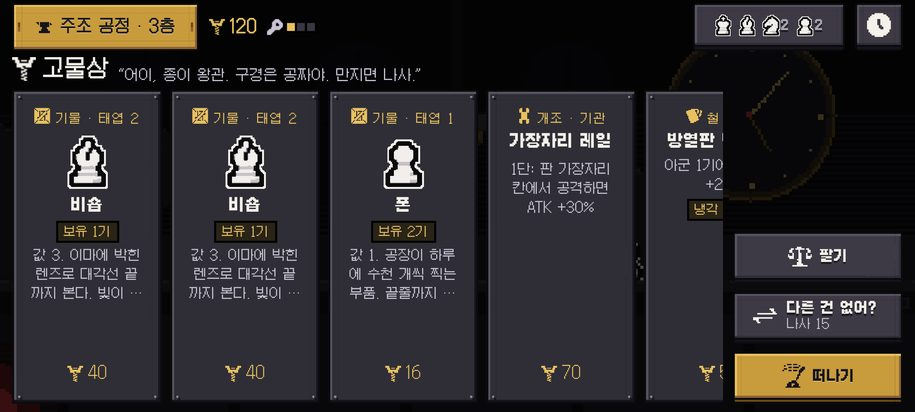
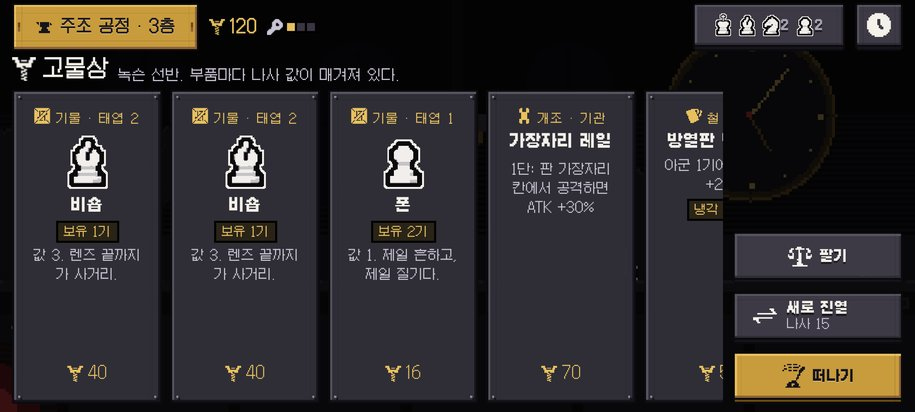
Drop the folksy voice: short, cold lines everywhere
정겨운 말투(만지면 나사 · ~볼래? · 다른 건 없어? · 외상? 웃기지 마 · 종이 왕관 애칭)를 모두 걷어 냈다 (D-093).
모든 화자는 짧고 차갑게, 버튼은 동사 하나(새로 진열 · 팔림), 운이 걸린 선택만 '~할까?'(레버를 당길까? · 나사 30을 걸까?).
고물상·공방·뽑기 기계·돌발·오류 메시지·결과 화면 문구를 바꾸고 CLAUDE.md 말투 규칙과 text.ts 화자 주석도 고쳤다.

Claude-Session: https://claude.ai/code/session_011jC4ZCDKW43H5FzLWnYVpe

diff --git a/src/run/run.ts b/src/run/run.ts
@@ -359,7 +359,7 @@ const rollCards = (run: RunState, rng: Rng, source: 'elite' | 'boss'): CardId[] 
 export const addEnchant = (run: RunState, id: EnchantId, discard?: EnchantId): string | void => {
   const e = run.loadout.enchants;
   const n = e[id] ?? 0;
-  if (n >= ENCHANT_MAX_STACK) return '“이미 걸작이야. 더 붙일 데 없어.”';
+  if (n >= ENCHANT_MAX_STACK) return '“이미 걸작이다.”';
   if (!n && Object.keys(e).length >= ENCHANT_SLOTS) {
     if (!discard || !e[discard]) return 'full';
     delete e[discard];
@@ -384,7 +384,7 @@ export const takeChoice = (run: RunState, option: string, discard?: EnchantId | 
   if (!(ch.options as string[]).includes(option)) return '없는 선택지';
   if (ch.type === 'piece') {
     const t = option as PieceType;
-    if (!canAdd(run.deck, t)) return '“규격 초과. 더는 안 들어가.”';
+    if (!canAdd(run.deck, t)) return '“규격 초과.”';
     run.deck.push(t);
     run.stage.choices.shift();
     return;
@@ -407,7 +407,7 @@ export const skipChoice = (run: RunState): void => {
 /** 보상 단계를 마친다 (선택지를 다 처리한 뒤) */
 export const finishReward = (run: RunState): string | void => {
   if (run.stage.at !== 'reward') return;
-  if (run.stage.choices.length) return '“아직 남았어. 고르든지 넘기든지.”';
+  if (run.stage.choices.length) return '“아직 고를 게 남았다.”';
   advance(run);
 };
 
@@ -438,8 +438,8 @@ const shopOf = (run: RunState): ShopStock | null => (run.stage.at === 'shop' ? r
 export const buyPiece = (run: RunState, i: number): string | void => {
   const it = shopOf(run)?.pieces[i];
   if (!it || it.sold) return '“그런 물건 없어.”';
-  if (run.gold < it.price) return '“나사가 모자라잖아. 외상? 웃기지 마.”';
-  if (!canAdd(run.deck, it.item)) return '“규격 초과야. 하나 팔고 오면 넣어 주지.”';
+  if (run.gold < it.price) return '“나사가 부족해.”';
+  if (!canAdd(run.deck, it.item)) return '“규격 초과. 하나 빼고 와.”';
   run.gold -= it.price;
   run.deck.push(it.item);
   it.sold = true;
@@ -448,7 +448,7 @@ export const buyPiece = (run: RunState, i: number): string | void => {
 export const buyCard = (run: RunState, i: number, discard?: number): string | void => {
   const it = shopOf(run)?.cards[i];
   if (!it || it.sold) return '“그런 물건 없어.”';
-  if (run.gold < it.price) return '“나사가 모자라잖아. 외상? 웃기지 마.”';
+  if (run.gold < it.price) return '“나사가 부족해.”';
   const err = addCard(run, it.item, discard);
   if (err) return err;
   run.gold -= it.price;
@@ -458,7 +458,7 @@ export const buyCard = (run: RunState, i: number, discard?: number): string | vo
 export const buyEnchant = (run: RunState, i: number, discard?: EnchantId): string | void => {
   const it = shopOf(run)?.enchants[i];
   if (!it || it.sold) return '“그런 물건 없어.”';
-  if (run.gold < it.price) return '“나사가 모자라잖아. 외상? 웃기지 마.”';
+  if (run.gold < it.price) return '“나사가 부족해.”';
   const err = addEnchant(run, it.item, discard);
   if (err) return err;
   run.gold -= it.price;
@@ -468,7 +468,7 @@ export const buyEnchant = (run: RunState, i: number, discard?: EnchantId): strin
 /** 기물 판매 (킹 제외). 상점에서만. */
 export const sellPiece = (run: RunState, t: PieceType): string | void => {
   if (!shopOf(run)) return '여긴 고물상이 아니야.';
-  if (t === 'K') return '“킹을 팔겠다고? 그럼 넌 뭐가 되는데.”';
+  if (t === 'K') return '“킹은 안 받아.”';
   const i = run.deck.indexOf(t);
   if (i < 0) return '없는 기물';
   run.deck.splice(i, 1);
@@ -478,7 +478,7 @@ export const sellPiece = (run: RunState, t: PieceType): string | void => {
 export const reroll = (run: RunState): string | void => {
   const shop = shopOf(run);
   if (!shop) return;
-  if (run.gold < shop.rerollPrice) return '“나사가 모자라잖아. 외상? 웃기지 마.”';
+  if (run.gold < shop.rerollPrice) return '“나사가 부족해.”';
   run.gold -= shop.rerollPrice;
   run.stage = { at: 'shop', stock: withRng(run, (rng) => makeStock(run, rng, shop.rerollPrice + SHOP.rerollStep)) };
 };
@@ -493,8 +493,8 @@ export const forgeUp = (run: RunState, t: PieceType): string | void => {
   if (run.stage.at !== 'forge') return '공방에 가서 해.';
   if (!run.deck.includes(t)) return '군단에 없는 유형';
   const cost = forgeCost(run, t);
-  if (cost === null) return '“더 두드리면 금 간다. 완성이야.”';
-  if (run.gold < cost) return '“나사가 모자라잖아. 외상? 웃기지 마.”';
+  if (cost === null) return '“완성품이다. 더 손댈 데 없어.”';
+  if (run.gold < cost) return '“나사가 부족해.”';
   run.gold -= cost;
   run.loadout.forge[t] = (run.loadout.forge[t] ?? 0) + 1;
 };
@@ -506,7 +506,7 @@ export const forgeVariantOptions = (run: RunState, t: PieceType): VariantId[] =>
 /** 공방: 그 유형의 거푸집을 이형으로 바꾼다 (무료, 되돌릴 수 없음) */
 export const forgeVariant = (run: RunState, t: PieceType, id: VariantId): string | void => {
   if (run.stage.at !== 'forge') return '공방에 가서 해.';
-  if (!forgeVariantOptions(run, t).includes(id)) return `“+${VARIANT_FORGE_LEVEL}도 안 된 걸 뜯어고치라고? 돌아가.”`;
+  if (!forgeVariantOptions(run, t).includes(id)) return `“+${VARIANT_FORGE_LEVEL}부터다.”`;
   run.loadout.variants = { ...run.loadout.variants, [t]: id };
 };
 
@@ -530,7 +530,7 @@ export const altarGamble = (run: RunState): string | void => {
     run.stage.result = { kind: 'pick' };
     return;
   }
-  if (run.gold < ALTAR.cost) return '“나사가 모자라잖아. 외상? 웃기지 마.”';
+  if (run.gold < ALTAR.cost) return '“나사가 부족해.”';
   run.gold -= ALTAR.cost;
   const r = withRng(run, (rng) => rng.next());
   if (r < ALTAR.odds.enchant) {

diff --git a/src/data/text.ts b/src/data/text.ts
@@ -23,10 +23,10 @@ export const TERM = {
 } as const;
 
 /**
- * 화자 (D-089 — 장난감 공장의 귀여움 + 기계의 차가움, docs/story.md):
- *  검수관 — 서류와 숫자만 믿는다. 짧고 차갑다.        고물상 주인 — 능글맞다. 주인공을 "종이 왕관"이라 부른다.
- *  공방 장인 — 말이 적고 자기 망치에 자부심.           뽑기 기계 — 딸깍거리며 꼬드긴다.
- * 느낌표는 위험·결정적인 순간 몇 개만, 물음표는 운에 거는 선택에만.
+ * 화자 (D-089 · D-093, docs/story.md):
+ * D-093 (사용자: 정겨운 말투 금지) — 모두 짧고 차갑다. 농담·애칭·말꼬리(~잖아 · ~볼래 · ~해 볼까) 없음.
+ *  검수관 — 판정만 말한다.      고물상 주인 — 값만 말한다.      공방 장인 — 한두 마디.      뽑기 기계 — 말하지 않는다 (서술만).
+ * 버튼은 동사 하나. 느낌표는 위험·결정적인 순간 몇 개만, 물음표는 운에 거는 선택에만 ("~할까?").
  */
 export const TEXT = {
   pressStart: '화면을 눌러 시작',
@@ -61,11 +61,11 @@ export const TEXT = {
   },
   start: {
     title: '시작 세트',
-    lead: '불량 판정을 받은 세트 셋이 반품대에 놓여 있다. 어느 상자의 동료를 데려갈까?',
+    lead: '반품대 위의 불량 세트 셋. 하나만 데려간다.',
     back: '뒤로',
   },
   map: {
-    choose: '컨베이어가 덜컹거린다. 위층 어딘가에서 반장이 기다린다.',
+    choose: '컨베이어가 위층으로 오른다. 끝에 반장이 있다.',
     abandon: '출하 포기',
     abandonDesc: '스스로 용광로에 걸어 들어간다',
     bossAhead: '이 공정의 반장',
@@ -79,25 +79,25 @@ export const TEXT = {
   },
   shop: {
     title: '고물상',
-    lead: '“어이, 종이 왕관. 구경은 공짜야. 만지면 나사.”',
+    lead: '녹슨 선반. 부품마다 나사 값이 매겨져 있다.',
     pieces: '기물',
     cards: '천공 카드',
     enchants: '개조',
     sell: '팔기',
-    reroll: '다른 건 없어?',
+    reroll: '새로 진열',
     leave: '떠나기',
-    sold: '팔렸어',
+    sold: '팔림',
   },
   forge: {
     title: '공방',
-    lead: '“거푸집 내려놔. …흠, 손볼 데 많군.” — 개량하면 그 유형이 모두 강해진다. +5 완성 거푸집은 대국 시작 방열판 20%.',
+    lead: '“거푸집 내려놔.” — 개량하면 그 유형이 모두 강해진다. +5 완성 거푸집은 대국 시작 방열판 20%.',
     variantLead: '+3부터 이형 거푸집으로 바꿀 수 있다 (무료, 되돌릴 수 없음).',
     leave: '떠나기',
   },
   altar: {
     title: '뽑기 기계',
-    lead: '딸깍. 딸깍. 기계 속 톱니가 당신이 나사를 넣기만 기다린다.',
-    pull: '한 번만… 당겨 볼까?',
+    lead: '나사를 먹는 기계. 무엇이 나올지는 톱니만 안다.',
+    pull: '레버를 당길까?',
     release: '행운 톱니가 꽉 찼다 — 원하는 개조를 꺼낸다',
     leave: '떠나기',
     outcomes: ['희귀 개조 3지선다', '상위 기물', '이형 거푸집', '꽝'],
@@ -106,10 +106,10 @@ export const TEXT = {
     win: '정품 출하',
     lose: '불량 폐기',
     /** 검수관의 말 (화자 있는 대사) + 서술 한 줄 (다키스트 던전·슬레이 더 스파이어식) */
-    winSay: '…서류상으론 결함 없음. 정품. 출하해.',
-    winTell: '상자 뚜껑이 닫힌다. 종이 왕관이 처음으로 눈을 가리지 않는다.',
+    winSay: '결함 없음. 출하.',
+    winTell: '상자 뚜껑이 닫힌다. 트럭이 공장 문을 나선다.',
     loseSay: '불량 혼입. 세트째 폐기.',
-    loseTell: '집게가 상자째 들어 올린다. 아래에서 쇳물이 끓는다. 종이 왕관이 먼저 탄다.',
+    loseTell: '집게가 상자째 들어 올린다. 아래에서 쇳물이 끓는다.',
     menu: '메인 메뉴',
     again: '새 출하',
   },

diff --git a/src/run/events.ts b/src/run/events.ts
@@ -20,9 +20,9 @@ export interface EventDef {
 export const EVENTS: Record<EventId, EventDef> = {
   smith: {
     title: '떠돌이 정비공',
-    text: '공구 수레를 끄는 정비공이 렌치를 들어 보인다. "거푸집 하나만, 싸게 고쳐 주지."',
+    text: '공구 수레 옆의 정비공. "거푸집 하나. 나사 25. 고르는 건 나다."',
     choices: [
-      { label: '나사 25 — 어느 거푸집이 걸릴지, 맡겨 볼까?', desc: '군단에 있는 유형 중 하나 (완성 거푸집 제외)' },
+      { label: '나사 25를 맡길까?', desc: '군단에 있는 유형 중 하나 (완성 거푸집 제외)' },
       { label: '지나간다', desc: '' },
     ],
   },
@@ -30,15 +30,15 @@ export const EVENTS: Record<EventId, EventDef> = {
     title: '반품 창고',
     text: '반품 딱지가 붙은 상자들. 아직 쓸 만한 것이 섞여 있다.',
     choices: [
-      { label: '기물을 챙겨 볼까?', desc: '무작위 나이트 또는 비숍 1기 (군단 규격 안에서)' },
-      { label: '천공 카드를 챙겨 볼까?', desc: '무작위 철 카드 1장 (빈 칸이 있을 때)' },
+      { label: '기물을 챙길까?', desc: '무작위 나이트 또는 비숍 1기 (군단 규격 안에서)' },
+      { label: '천공 카드를 챙길까?', desc: '무작위 철 카드 1장 (빈 칸이 있을 때)' },
     ],
   },
   gambler: {
     title: '태엽 도박꾼',
-    text: '"동전 한 번이면 돼. 앞면이면 두 배, 뒷면이면 내 거."',
+    text: '"앞면이면 두 배. 뒷면이면 내 거."',
     choices: [
-      { label: '앞면에 나사 30개, 걸어 볼까?', desc: '50%: +30 / 50%: −30' },
+      { label: '나사 30을 걸까?', desc: '50%: +30 / 50%: −30' },
       { label: '거절한다', desc: '' },
     ],
   },
@@ -52,9 +52,9 @@ export const EVENTS: Record<EventId, EventDef> = {
   },
   pact: {
     title: '쇳물 앞의 거래',
-    text: '용광로 앞, 쇳물빛에 그림자가 말한다. "가장 아끼는 부품을 녹여라. 대가는 주지."',
+    text: '용광로 앞의 그림자. "하나 녹여라. 대가는 준다."',
     choices: [
-      { label: '가장 아끼는 걸, 녹여 볼까?', desc: '킹·폰을 뺀 무작위 기물 1기를 잃고 희귀 개조 3지선다' },
+      { label: '하나를 녹일까?', desc: '킹·폰을 뺀 무작위 기물 1기를 잃고 희귀 개조 3지선다' },
       { label: '거절한다', desc: '' },
     ],
   },

diff --git a/src/ui/runUi.ts b/src/ui/runUi.ts
@@ -452,7 +452,7 @@ export class RunUi {
     const lines = st.lines.map((l) => `<i class="tag">${l}</i>`).join('');
     const el = this.hud.openScene(
       `${this.bar(run)}
-      <div class="title-line"><h2>${st.title}</h2>${lines}${ch ? `<p>검수관이 서류를 넘긴다. “통과. …아직은. ${kind}, 하나만.”</p>` : ''}</div>
+      <div class="title-line"><h2>${st.title}</h2>${lines}${ch ? `<p>“통과. ${kind} 하나.”</p>` : ''}</div>
       <div class="stage">${ch ? `<div class="offers">${offers}</div>` : '<div class="grow"></div>'}</div>
       <div class="row" style="display:flex;justify-content:flex-end;gap:8px;padding-bottom:8px">
         ${ch ? button(`${R.skip} (나사 +${SKIP_GOLD})`, 'data-skip') : button(R.next, 'data-next', { tone: 'brass', icon: 'lever' })}
@@ -541,7 +541,7 @@ export class RunUi {
     const types = ORDER.filter((t) => t !== 'K' && run.deck.includes(t));
     const panel = this.hud.openOverlay(`
       <h2>${icon('scale')} ${TEXT.shop.sell}</h2>
-      <p>“팔면 끝이야. 울면서 돌려 달래도 안 돼, 종이 왕관.”</p>
+      <p>판 기물은 돌아오지 않는다.</p>
       <div class="chips">${types.map((t) => `<button class="chip" type="button" data-sell="${t}"><b>${pieceImg(t, 0, 'small', 24)} ${PIECE_NAMES_KO[t]} ×${run.deck.filter((x) => x === t).length}</b><small>1기 팔기 · 나사 +${sellPrice(t)}</small></button>`).join('')}</div>
       ${button('닫기', 'data-close', { tone: 'brass', cls: 'wide' })}`);
     this.wire(panel, {
@@ -623,7 +623,7 @@ export class RunUi {
       const all = (Object.keys(ENCHANTS) as EnchantId[]).filter((id) => (run.loadout.enchants[id] ?? 0) < ENCHANT_MAX_STACK);
       const el = this.hud.openScene(
         `${this.bar(run)}
-        <div class="title-line"><h2>${icon('lever')} 행운 톱니 해방</h2><p>행운 톱니가 다 찼다. “원하는 걸 골라. 이번엔 꽝 없어.”</p></div>
+        <div class="title-line"><h2>${icon('lever')} 행운 톱니 해방</h2><p>행운 톱니가 다 찼다. 이번엔 꽝이 없다.</p></div>
         <div class="stage"><div class="offers scroll-x grow">${all
           .map((id) => {
             const next = (run.loadout.enchants[id] ?? 0) + 1;

diff --git a/tests/run.test.ts b/tests/run.test.ts
@@ -128,7 +128,7 @@ describe('보상과 노드', () => {
     expect(buyPiece(run, 0)).toBeUndefined();
     expect(buyPiece(run, 0)).toBe('“그런 물건 없어.”');
     const before = run.gold;
-    expect(sellPiece(run, 'K')).toBe('“킹을 팔겠다고? 그럼 넌 뭐가 되는데.”');
+    expect(sellPiece(run, 'K')).toBe('“킹은 안 받아.”');
     expect(sellPiece(run, run.deck.find((t) => t !== 'K')!)).toBeUndefined();
     expect(run.gold).toBeGreaterThan(before);
     leaveNode(run);
@@ -140,7 +140,7 @@ describe('보상과 노드', () => {
     toNode(run, 'forge');
     run.gold = 10000;
     for (let i = 0; i < 5; i++) expect(forgeUp(run, 'K')).toBeUndefined();
-    expect(forgeUp(run, 'K')).toBe('“더 두드리면 금 간다. 완성이야.”');
+    expect(forgeUp(run, 'K')).toBe('“완성품이다. 더 손댈 데 없어.”');
     expect(run.gold).toBe(10000 - FORGE_COST.reduce((a, b) => a + b, 0));
   });
   it('크랙 제단: 꽝이 쌓이면 다음 제단에서 원하는 인챈트 확정', () => {

diff --git a/CLAUDE.md b/CLAUDE.md
@@ -44,7 +44,7 @@
 8. **되돌릴 수 있게**: 예약은 한 번 탭으로 확정, 대신 되돌리기·초기화를 항상 같은 자리에.
 9. **UI는 게임 상태를 직접 바꾸지 않는다**: 화면은 컨트롤러·엔진 함수를 부를 뿐 (엔진 결정론 유지).
 10. **문자열**: 사용자에게 보이는 글은 한국어, 이후 현지화 대비해 데이터 파일(`src/data/`)에 모은다.
-11. **말투** (사용자 결정 D-087): 존댓말 안내(~하세요 · ~해요 · ~습니다) 금지. 화면 글은 **인물 대사**(반말, 따옴표 — 검수관 · 고물상 주인 · 공방 장인 등: “나사가 부족해.”) 또는 **서술 한 줄**(~다, 다키스트 던전·슬레이 더 스파이어식: “컨베이어가 당신을 용광로 쪽으로 밀어 간다.”). 화자 성격은 `src/data/text.ts` 머리 주석(검수관 차갑게 · 고물상 주인 능글맞게 · 공방 장인 무뚝뚝하게 · 뽑기 기계 꼬드기게). **느낌표**는 소수의 중요한·치명적인 순간에만 (검문! · 체크! · 폭주! · 치명! · 손상!), **물음표**는 무작위가 걸린 선택에 (레버를 당겨 볼까? · 나사 30개를 걸어 볼까? — D-088).
+11. **말투** (사용자 결정 D-087): 존댓말 안내(~하세요 · ~해요 · ~습니다) 금지. 화면 글은 **인물 대사**(반말, 따옴표 — 검수관 · 고물상 주인 · 공방 장인 등: “나사가 부족해.”) 또는 **서술 한 줄**(~다, 다키스트 던전·슬레이 더 스파이어식: “컨베이어가 당신을 용광로 쪽으로 밀어 간다.”). 화자 성격은 `src/data/text.ts` 머리 주석 — **모두 짧고 차갑게, 정겨운 말투·농담·애칭·말꼬리(~잖아 · ~볼래 · ~해 볼까) 금지** (사용자 결정 D-093). 버튼은 동사 하나. **느낌표**는 소수의 중요한·치명적인 순간에만 (검문! · 체크! · 폭주! · 치명! · 손상!), **물음표**는 무작위가 걸린 선택에 (레버를 당길까? · 나사 30을 걸까? — D-088·D-093).
 
 ## 코드 규칙
 - 게임 수치는 `src/data/`에 (하드코딩 금지), 근거는 주석·DECISIONS에.

diff --git a/docs/story.md b/docs/story.md
@@ -10,7 +10,7 @@
 > 하지만 마지막에 이르러, 그는 **승급을 고르지 않고** 스스로 왕관을 내려놓고 **본래의 모습**을 고른다.
 
 - **주제**: 규칙을 깨는 방법은 다른 것이 되는 게 아니라, 있는 그대로 이기는 것.
-- **톤**: 장난감 공장의 귀여움 + 기계의 차가움. 주인공은 말하지 않는다 (몸짓·종이 왕관이 연기한다).
+- **톤**: 장난감 공장의 겉모습 + 기계의 차가움. 화면 말투는 정겹지 않다 — 짧고 차갑게 (D-093). 주인공은 말하지 않는다 (몸짓·종이 왕관이 연기한다).
 - **제목과 맞물림**: Pawnisher = 폰(Pawn)이 규칙을 벌한다(Punish). 아이콘의 왕관 쓴 폰 = 아홉째 폰.
 
 ## 1. 세계 한 장 요약
